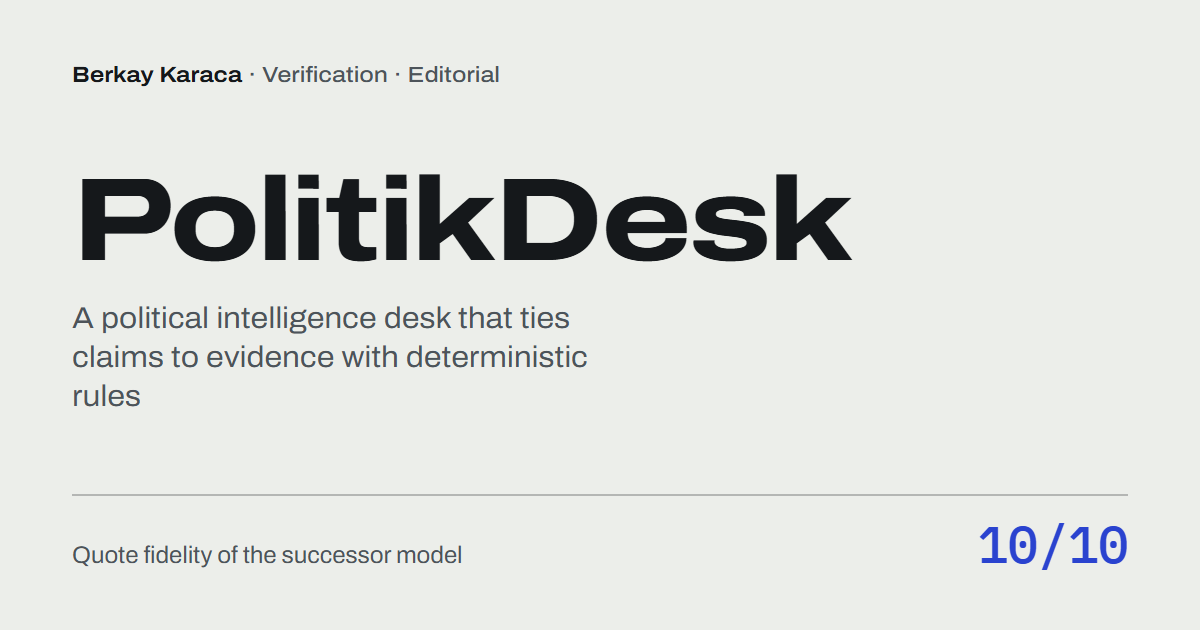
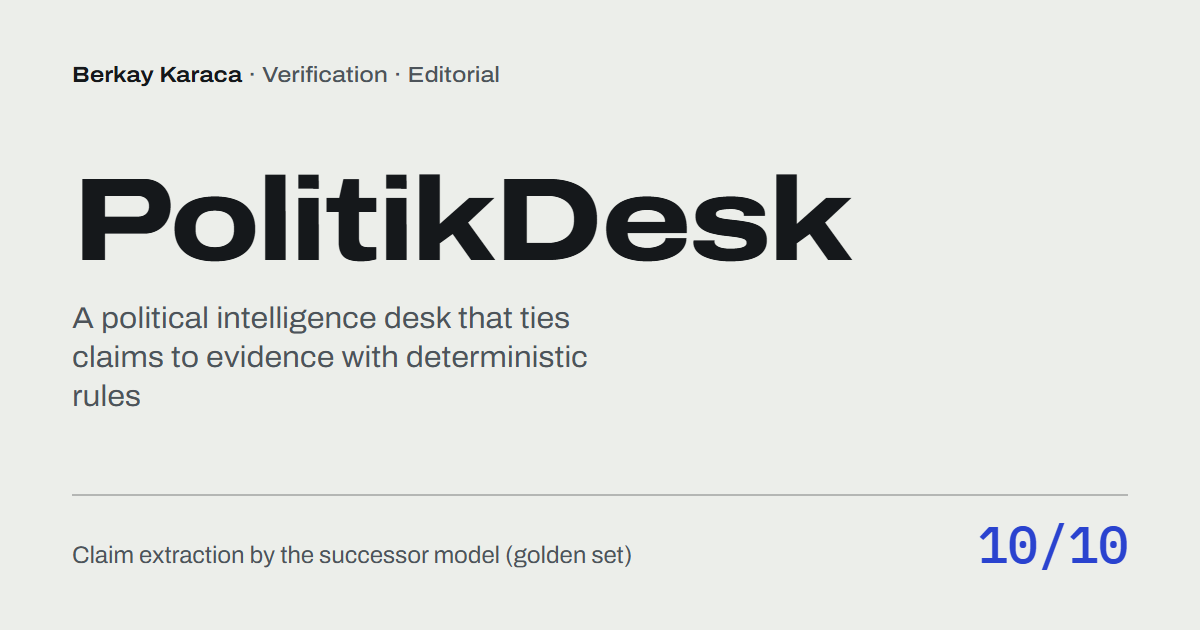
Proje dogrulamasi 2026-10-21: Kokpit v2.9, OsintLab denetim turu, bayat sayilar; Next 16.3.8
Her projenin sitedeki iddiasi bu makinedeki repoyla karsilastirildi.
- Kokpit v2.9: 38 faz, ui 174, ada 70 (CI), yerinde surdur, Ctrl+Shift+T, push durumu;
  yeni olcum: durum okuma 2.075 ms -> 790 ms; ders: log Alt+Tab titremesini gosterdi
- OsintLab: "otomatik test yok" bayatti (2026-10-18'de 67 test); yeni olcum gozlem kuyrugu
  292 sn -> 3,7 sn; kod/commit/roadmap sayilari guncel
- PolitikDesk: sayfa ici 2.701/2.695 celiskisi giderildi; "alinti sadakati 10/10" etiketi
  kaynaga gore "iddia cikarimi 10/10" (alinti sadakati %100)
- FabrikaOS 180 commit'in 179'u, TenderIQ 82 commit
- Next 16.3.6 -> 16.3.8 (high: Image Optimization SSRF dahil 5 advisory), source-map-js 1.2.2
Dogrulama: tip + lint + build temiz, gorsel-dogrulama 96 kare 0 sorun, yayin-oncesi 0 yuksek.

Changed region(s): [[0.0617, 0.8444, 0.5242, 0.9048]]

diff --git a/content/projeler/kokpit.ts b/content/projeler/kokpit.ts
@@ -19,14 +19,14 @@ export const kokpit: Proje = {
   repo: { acik: true, url: 'https://github.com/Scryne/Kokpit' },
   demo: { tr: 'Yok. Kişisel masaüstü aracı.', en: 'None. A personal desktop tool.' },
   stack: [
-    { grup: { tr: 'Masaüstü', en: 'Desktop' }, ogeler: 'Electron 44 (sandbox + contextIsolation, app:// şeması + CSP)' },
+    { grup: { tr: 'Masaüstü', en: 'Desktop' }, ogeler: 'Electron 44.9 (sandbox + contextIsolation, app:// şeması + CSP)' },
     { grup: { tr: 'Terminal', en: 'Terminal' }, ogeler: 'node-pty (ConPTY), ayrı süreçte token korumalı WebSocket PTY sunucusu, xterm.js 6 (WebGL)' },
     { grup: { tr: 'Arayüz', en: 'Interface' }, ogeler: 'React 19, TypeScript, Vite 8, Tailwind 4' },
     { grup: { tr: 'Veri', en: 'Data' }, ogeler: 'git + state.json + roadmap okuyan durum betiği, JSONL oturum defteri, Claude Code HTTP hook’ları (127.0.0.1 + token)' },
   ],
   olcek: [
-    { ad: { tr: 'Faz', en: 'Phases' }, deger: { tr: '35 (Faz 0 spike → Faz 34 sürüm bekçisi)', en: '35 (phase 0 spike → phase 34 version watcher)' } },
-    { ad: { tr: 'Test', en: 'Tests' }, deger: { tr: 'kanca 101 + pty 21 (Windows CI) · ui 155 (gerçek Electron, CDP) · ada 63 · gerçek claude ile 11', en: 'hooks 101 + pty 21 (Windows CI) · UI 155 (real Electron, CDP) · Ada 63 · 11 against real claude' } },
+    { ad: { tr: 'Faz', en: 'Phases' }, deger: { tr: '38 (Faz 0 spike → Faz 37 push durumu)', en: '38 (phase 0 spike → phase 37 push status)' } },
+    { ad: { tr: 'Test', en: 'Tests' }, deger: { tr: 'kanca 101 + pty 21 + ada 70 (Windows CI) · ui 174 (gerçek Electron, CDP) · gerçek claude ile 11', en: 'hooks 101 + pty 21 + Ada 70 (Windows CI) · UI 174 (real Electron, CDP) · 11 against real claude' } },
     { ad: { tr: 'Yüzey', en: 'Surfaces' }, deger: { tr: 'Pano, Terminaller, Sağlık, Envanter + Ada', en: 'Board, Terminals, Health, Inventory + Ada' } },
   ],
   olcumler: [
@@ -48,10 +48,18 @@ export const kokpit: Proje = {
     {
       ne: { tr: 'Gerçek Electron üzerinde arayüz kontrolü', en: 'UI checks against real Electron' },
       once: { tr: '29', en: '29' },
-      sonra: { tr: '155', en: '155' },
-      not: { tr: 'Artık Ada penceresini de kuruyor; kurmadığı sürece v2.2’den beri süren bir kapanış hatası görünmez kalmıştı. Sonra tepsi, oturumsuz limit, gerçek tam ekran pencere, gerçek imleçle sürükleme ve Windows z-sırası da eklendi.', en: 'It now sets up the Ada window too; until it did, a shutdown bug present since v2.2 stayed invisible. Later came the tray, session-less limits, a real full-screen window, dragging with the real cursor and the Windows z-order.' },
-      cetvel: { min: 0, max: 155, once: 29, sonra: 155, yon: 'yukari' },
+      sonra: { tr: '174', en: '174' },
+      not: { tr: 'Artık Ada penceresini de kuruyor; kurmadığı sürece v2.2’den beri süren bir kapanış hatası görünmez kalmıştı. Sonra tepsi, oturumsuz limit, gerçek tam ekran pencere, gerçek imleçle sürükleme, Windows z-sırası ve biten bölmenin yerinde sürdürülmesi de eklendi.', en: 'It now sets up the Ada window too; until it did, a shutdown bug present since v2.2 stayed invisible. Later came the tray, session-less limits, a real full-screen window, dragging with the real cursor, the Windows z-order and resuming a finished pane in place.' },
+      cetvel: { min: 0, max: 174, once: 29, sonra: 174, yon: 'yukari' },
       kaynak: 'Kokpit.md · olcek.test',
+    },
+    {
+      ne: { tr: 'Pano’nun durumu okuma süresi (22 proje)', en: 'Time for the board to read status (22 projects)' },
+      once: { tr: '2.075 ms', en: '2,075 ms' },
+      sonra: { tr: '790 ms', en: '790 ms' },
+      not: { tr: 'Durum betiği her depo için git’i sırayla çağırıyordu; sürenin %85’i buydu (profil ölçümü). Depolar paralel okunuyor, çıktı eskisiyle birebir aynı.', en: 'The status script called git for each repository in turn; that was 85% of the time (profiled). Repositories are now read in parallel and the output is byte-for-byte the same.' },
+      cetvel: { min: 0, max: 2500, once: 2075, sonra: 790, yon: 'asagi', birim: 'ms' },
+      kaynak: 'Kokpit.md · Ölçümler · Tam denetim (v2.9)',
     },
   ],
   bolumler: [
@@ -75,7 +83,7 @@ export const kokpit: Proje = {
           ogeler: {
             tr: [
               '**Lens, depo değil:** pano kendi verisini tutmuyor; git durumunu, proje aşamasını ve roadmap ilerlemesini dosyalardan okuyor. Uygulama silinse hiçbir şey kaybolmuyor.',
-              '**Karttan oturuma:** “Aç” o klasörde gömülü terminalde `claude` başlatır; sekmeler ve yan yana bölmeler. “Çalıştır” projenin uygulamasını yan bölmede açıp adresini yakalar, kapatınca süreç ağacının tamamı ölür. “Sürdür” `--resume` ile tam o konuşmayı açar.',
+              '**Karttan oturuma:** “Aç” o klasörde gömülü terminalde `claude` başlatır; sekmeler ve yan yana bölmeler. “Çalıştır” projenin uygulamasını yan bölmede açıp adresini yakalar, kapatınca süreç ağacının tamamı ölür. “Sürdür” `--resume` ile tam o konuşmayı açar; biten bölme yerinde sürdürülür, Ctrl+Shift+T son kapatılanı geri açar. Git sütunu push edilmemiş commit’i de gösterir.',
               '**Canlı etkinlik:** Kokpit’in açtığı claude’a `--settings` ile HTTP hook’ları verilir; projenin kendi hook’larıyla birleşir, global ayara dokunulmaz. Bölmenin üstünde “ne yapıyor” şeridi (son araç, dosya, `+N −M`, süre), “bitti” ile “seni bekliyor” ayrı zil, kenarda 5 saatlik ve haftalık limit.',
               '**Ada:** ekranın üst ortasında hep açık küçük bir pencere; Kokpit’in penceresi kapatılınca tepsiye iner, Windows açılışında arka planda başlar. Bekleyen oturumları (Kokpit dışında açılan terminal oturumları dahil), claude’un son mesajını ve sorusunu gösterir; seçenekler (çok sorulu formlar dahil) ve serbest cevap Kokpit öne gelmeden gönderilir, klavyeden de. 5 saatlik ve haftalık limit hiç oturum açmadan görünür. Bir proje seçip yazılan görev, arka planda yeni bir claude oturumu başlatır. Gümüş bir göz kanca durumuna göre davranır: araca göre bakar, soruda amber halkayla bekler, bitince sevinir, 30 dakika sessizlikte uyur; yanındaki noktalar çalışan alt ajanlar. Her uygulamanın üstünde durur; istenince ekranın kenarına çekilip yalnız çenesini gösterir, tam ekran video ya da oyun öndeyken kendiliğinden kaybolur.',
               '**Hafıza koruması:** canlı süreç varken kapatmada “Güvenli kapat” claude’a çıkış tuşlarını gönderip oturum sonu kancasını bekler; her oturum satırında “beyne düştü / düşmedi” ve tek oturumluk geri doldurma.',
@@ -83,7 +91,7 @@ export const kokpit: Proje = {
             ],
             en: [
               '**A lens, not a store:** the board keeps no data of its own; it reads git status, project stage and roadmap progress from files. Delete the app and nothing is lost.',
-              '**From card to session:** “Open” starts `claude` in an embedded terminal in that folder, with tabs and split panes. “Run” starts the project’s app in a side pane and captures its address; closing it kills the whole process tree. “Resume” reopens exactly that conversation with `--resume`.',
+              '**From card to session:** “Open” starts `claude` in an embedded terminal in that folder, with tabs and split panes. “Run” starts the project’s app in a side pane and captures its address; closing it kills the whole process tree. “Resume” reopens exactly that conversation with `--resume`; a finished pane resumes in place and Ctrl+Shift+T reopens the last closed one. The git column also shows commits that were not pushed.',
               '**Live activity:** claude started by Kokpit gets HTTP hooks via `--settings`; they merge with the project’s own hooks and never touch global settings. Each pane has a “what it is doing” strip (last tool, file, `+N −M`, duration), separate bells for “done” and “waiting for you”, and the 5-hour and weekly limits at the edge.',
               '**Ada:** a small always-on window at the top centre of the screen; closing Kokpit’s window sends it to the tray, and it starts in the background when Windows starts. It shows waiting sessions (including terminal sessions opened outside Kokpit), claude’s last message and its question; options (including multi-question forms) and free-text answers are sent without bringing Kokpit forward, keyboard included. The 5-hour and weekly limits are visible without opening any session. Picking a project and typing a task starts a new claude session in the background. A silver eye behaves from hook state: it looks according to the tool, waits with an amber ring on a question, cheers when done, sleeps after 30 quiet minutes; the dots beside it are running subagents. It stays above every app; on request it tucks behind the screen edge showing only its chin, and it disappears on its own while a full-screen video or game is in front.',
               '**Memory protection:** closing over a live process offers “Safe close”, which sends claude its exit keys and waits for the session-end hook; every session row shows whether it reached memory, with a one-session backfill.',
@@ -100,8 +108,8 @@ export const kokpit: Proje = {
         {
           tur: 'p',
           metin: {
-            tr: 'Plan → spike → final doküman → faz faz roadmap; her fazın “bitti” kriteri ölçülerek kapandı. Riskli her karar önce gerçek claude ile ölçüldü: ConPTY + Electron ayrı süreç (beş spawn varyantı), `--settings` hook’larının proje hook’larıyla birleşmesi, soru formunun tuş dizisi, `--resume`’un aynı dosyaya devam etmesi. PTY sunucusu ayrı süreçte ve token’lı. test:ui gerçek Electron’u ve Ada penceresini CDP ile sürüyor; test ve ekran koşucuları geçici bir dizinde çalışıyor, kullanıcının gerçek dosyalarına dokunmuyor. Testlerin hatayı yakalayıp yakalamadığı mutasyonla da sınandı (v2.3 15/15, v2.4 7/7, v2.5 4/4, v2.6 14/14, v2.7 8/8).',
-            en: 'Plan → spike → final document → phased roadmap, each phase closed only when its “done” criterion was measured. Every risky decision was first measured against real claude: ConPTY + Electron in a separate process (five spawn variants), `--settings` hooks merging with project hooks, the question form’s key sequence, and `--resume` continuing the same file. The PTY server runs in a separate, token-protected process. test:ui drives real Electron and the Ada window over CDP; test and screenshot runners work in a temporary directory and never touch the user’s real files. Whether the tests catch bugs was checked with mutations too (v2.3 15/15, v2.4 7/7, v2.5 4/4, v2.6 14/14, v2.7 8/8).',
+            tr: 'Plan → spike → final doküman → faz faz roadmap; her fazın “bitti” kriteri ölçülerek kapandı. Riskli her karar önce gerçek claude ile ölçüldü: ConPTY + Electron ayrı süreç (beş spawn varyantı), `--settings` hook’larının proje hook’larıyla birleşmesi, soru formunun tuş dizisi, `--resume`’un aynı dosyaya devam etmesi. PTY sunucusu ayrı süreçte ve token’lı. test:ui gerçek Electron’u ve Ada penceresini CDP ile sürüyor; test ve ekran koşucuları geçici bir dizinde çalışıyor, kullanıcının gerçek dosyalarına dokunmuyor. Testlerin hatayı yakalayıp yakalamadığı mutasyonla da sınandı (v2.3 15/15, v2.4 7/7, v2.5 4/4, v2.6 14/14, v2.7 8/8, v2.9 2/2).',
+            en: 'Plan → spike → final document → phased roadmap, each phase closed only when its “done” criterion was measured. Every risky decision was first measured against real claude: ConPTY + Electron in a separate process (five spawn variants), `--settings` hooks merging with project hooks, the question form’s key sequence, and `--resume` continuing the same file. The PTY server runs in a separate, token-protected process. test:ui drives real Electron and the Ada window over CDP; test and screenshot runners work in a temporary directory and never touch the user’s real files. Whether the tests catch bugs was checked with mutations too (v2.3 15/15, v2.4 7/7, v2.5 4/4, v2.6 14/14, v2.7 8/8, v2.9 2/2).',
           },
         },
       ],
@@ -112,8 +120,8 @@ export const kokpit: Proje = {
         {
           tur: 'p',
           metin: {
-            tr: '“Hiçbir yere yazmaz” kuralı ancak test ve ekran betikleri de ona uyunca tamamlanıyor: önce ekran betiği bekleyen bir geri yükleme teklifini tüketti, sonra test koşucusu açık Kokpit’in defterine sahte bir “kapandı” satırı yazdı. Çözüm dosyaları geri koymak değil, ayrı dizin oldu. Aynı ders v2.4’te tekrarlandı: testin kurmadığı pencere, testin göremediği hatadır.',
-            en: 'A “writes nothing anywhere” rule is complete only when the test and screenshot scripts obey it too: first the screenshot script consumed a pending restore offer, then the test runner wrote a fake “closed” line into a running Kokpit’s log. The fix was not restoring files but a separate directory. The lesson came back in v2.4: a window the test does not set up is a bug the test cannot see.',
+            tr: '“Hiçbir yere yazmaz” kuralı ancak test ve ekran betikleri de ona uyunca tamamlanıyor: önce ekran betiği bekleyen bir geri yükleme teklifini tüketti, sonra test koşucusu açık Kokpit’in defterine sahte bir “kapandı” satırı yazdı. Çözüm dosyaları geri koymak değil, ayrı dizin oldu. Aynı ders v2.4’te tekrarlandı: testin kurmadığı pencere, testin göremediği hatadır. v2.9 denetiminde yine: bütün testler yeşilken altı haftalık kullanım logu, Ada’nın Alt+Tab’da kaybolup geri geldiğini gösterdi.',
+            en: 'A “writes nothing anywhere” rule is complete only when the test and screenshot scripts obey it too: first the screenshot script consumed a pending restore offer, then the test runner wrote a fake “closed” line into a running Kokpit’s log. The fix was not restoring files but a separate directory. The lesson came back in v2.4: a window the test does not set up is a bug the test cannot see. And again in the v2.9 audit: with every test green, six weeks of usage logs showed Ada vanishing and reappearing on Alt+Tab.',
           },
         },
       ],

diff --git a/content/projeler/osintlab.ts b/content/projeler/osintlab.ts
@@ -15,7 +15,7 @@ export const osintlab: Proje = {
   },
   donem: { tr: 'Eyl 2026 (8 günlük inşa)', en: 'Sep 2026 (built in 8 days)' },
   yil: 202609,
-  durum: { tr: 'Tamamlandı; 28 faz, v1–v5', en: 'Complete; 28 phases, v1–v5' },
+  durum: { tr: 'Tamamlandı; 28 faz, v1–v5, Ekim 2026’da denetim ve sertleştirme', en: 'Complete; 28 phases, v1–v5, audited and hardened in October 2026' },
   repo: { acik: false },
   demo: {
     tr: 'Yok. Yerelde, Windows servisi olarak otomatik tarar.',
@@ -27,9 +27,9 @@ export const osintlab: Proje = {
     { grup: { tr: 'Yapay zekâ', en: 'AI' }, ogeler: 'Claude Code (proje skill’i + hook’lar), Obsidian vault çıktısı' },
   ],
   olcek: [
-    { ad: { tr: 'Kod', en: 'Code' }, deger: { tr: '~12.700 satır Python + ~16.100 satır TypeScript', en: '~12,700 lines Python + ~16,100 lines TypeScript' } },
-    { ad: { tr: 'Commit', en: 'Commits' }, deger: { tr: '79', en: '79' } },
-    { ad: { tr: 'Roadmap', en: 'Roadmap' }, deger: { tr: '28 faz, 3.370 satırlık karar kaydı', en: '28 phases, a 3,370-line decision log' } },
+    { ad: { tr: 'Kod', en: 'Code' }, deger: { tr: '~13.900 satır Python + ~16.000 satır TypeScript', en: '~13,900 lines Python + ~16,000 lines TypeScript' } },
+    { ad: { tr: 'Commit', en: 'Commits' }, deger: { tr: '80', en: '80' } },
+    { ad: { tr: 'Roadmap', en: 'Roadmap' }, deger: { tr: '28 faz + denetim turu, ~3.450 satırlık karar kaydı', en: '28 phases + an audit round, a ~3,450-line decision log' } },
   ],
   olcumler: [
     {
@@ -60,6 +60,14 @@ export const osintlab: Proje = {
       sonra: { tr: '81/83', en: '81/83' },
       cetvel: { min: 0, max: 83, sonra: 81, yon: 'yukari' },
       kaynak: 'OsintLab.md · Ne yapıyor',
+    },
+    {
+      ne: { tr: 'Gözlem kuyruğu, gerçek veride (3.918 gözlem)', en: 'Observation queue on real data (3,918 observations)' },
+      once: { tr: '292 sn', en: '292 s' },
+      sonra: { tr: '3,7 sn', en: '3.7 s' },
+      not: { tr: 'Altı haftalık kullanımdan sonraki denetimde: her aramada 582 aday ad için düzenli ifade yeniden derleniyordu. Küçük veride görünmüyordu; sonuçlar eskisiyle birebir aynı (261/261 claim).', en: 'Found in the audit after six weeks of use: a regular expression for 582 candidate names was recompiled on every search. Invisible on small data; results are identical to before (261/261 claims).' },
+      cetvel: { min: 0, max: 300, once: 292, sonra: 3.7, yon: 'asagi' },
+      kaynak: 'OsintLab Roadmap · Denetim ve sertleştirme turu (2026-10-18)',
     },
   ],
   bolumler: [
@@ -150,12 +158,12 @@ export const osintlab: Proje = {
   sinirlar: {
     tr: [
       'Tek kullanıcılı ve yerel; barındırılan demo yok, repo gizli.',
-      'Otomatik test ve CI yok. Doğrulama fazların elle yürütülen kabul senaryoları ve ölçüm betiğiyle yapıldı.',
+      'CI yok. Fazlar elle yürütülen kabul senaryoları ve ölçüm betiğiyle doğrulandı; otomatik testler (67) ancak Ekim 2026 denetiminde eklendi.',
       'Deneysel domain’ler (GEOINT, SOCMINT, MEDIAINT) bilinçli olarak kapsam dışında.',
     ],
     en: [
       'Single-user and local; no hosted demo, private repository.',
-      'No automated tests or CI. Verification used hand-run acceptance scenarios per phase and the measurement script.',
+      'No CI. Phases were verified with hand-run acceptance scenarios and the measurement script; automated tests (67) were only added in the October 2026 audit.',
       'Experimental domains (GEOINT, SOCMINT, MEDIAINT) are deliberately out of scope.',
     ],
   },

diff --git a/content/projeler/politikdesk.ts b/content/projeler/politikdesk.ts
@@ -37,14 +37,14 @@ export const politikdesk: Proje = {
     {
       ne: { tr: 'CI', en: 'CI' },
       once: { tr: 'en az 5 hafta kırmızı', en: 'red for 5+ weeks' },
-      sonra: { tr: '2.695 test, 0 hata, 49 sn', en: '2,695 tests, 0 failures, 49 s' },
+      sonra: { tr: '2.701 test, 0 hata, ~50 sn', en: '2,701 tests, 0 failures, ~50 s' },
       not: { tr: '“2711 test geçiyor” sayısı veriyle dolu yerel bir veritabanına karşı ölçülmüştü.', en: 'The “2,711 tests pass” figure had been measured against a local database full of data.' },
       kaynak: 'PolitikDesk.md · Denetim',
     },
     {
-      ne: { tr: 'Halef modelde alıntı sadakati', en: 'Quote fidelity of the successor model' },
+      ne: { tr: 'Halef modelde iddia çıkarımı (altın set)', en: 'Claim extraction by the successor model (golden set)' },
       sonra: { tr: '10/10', en: '10/10' },
-      not: { tr: 'Model emekliye ayrılınca halef aynı Türkçe altın setle seçildi.', en: 'When the model was retired, its successor was chosen on the same Turkish golden set.' },
+      not: { tr: 'Model emekliye ayrılınca halef aynı Türkçe altın setle seçildi; alıntı sadakati %100, taslak dayanağı 7/8.', en: 'When the model was retired, its successor was chosen on the same Turkish golden set; quote fidelity 100%, draft grounding 7/8.' },
       cetvel: { min: 0, max: 10, sonra: 10, yon: 'yukari' },
       kaynak: 'PolitikDesk.md · Yapay zekâ 2',
     },

diff --git a/content/projeler/fabrikaos.ts b/content/projeler/fabrikaos.ts
@@ -103,8 +103,8 @@ export const fabrikaos: Proje = {
         {
           tur: 'p',
           metin: {
-            tr: '173 commit’in 172’si Claude ortak yazarlı. Hızı model verdi; ürünü sağlam yapan süreçti:',
-            en: '172 of 173 commits are co-authored with Claude. The model provided the speed; the process made the product solid:',
+            tr: '180 commit’in 179’u Claude ortak yazarlı. Hızı model verdi; ürünü sağlam yapan süreçti:',
+            en: '179 of 180 commits are co-authored with Claude. The model provided the speed; the process made the product solid:',
           },
         },
         {

diff --git a/content/projeler/tenderiq.ts b/content/projeler/tenderiq.ts
@@ -34,7 +34,7 @@ export const tenderiq: Proje = {
     { ad: { tr: 'Test', en: 'Tests' }, deger: { tr: '415 birim + 183 entegrasyon', en: '415 unit + 183 integration' } },
     { ad: { tr: 'CI', en: 'CI' }, deger: { tr: '9 iş', en: '9 jobs' } },
     { ad: { tr: 'Mimari karar', en: 'Decision records' }, deger: { tr: '13 ADR', en: '13 ADRs' } },
-    { ad: { tr: 'Commit', en: 'Commits' }, deger: { tr: '81', en: '81' } },
+    { ad: { tr: 'Commit', en: 'Commits' }, deger: { tr: '82', en: '82' } },
   ],
   olcumler: [
     {
